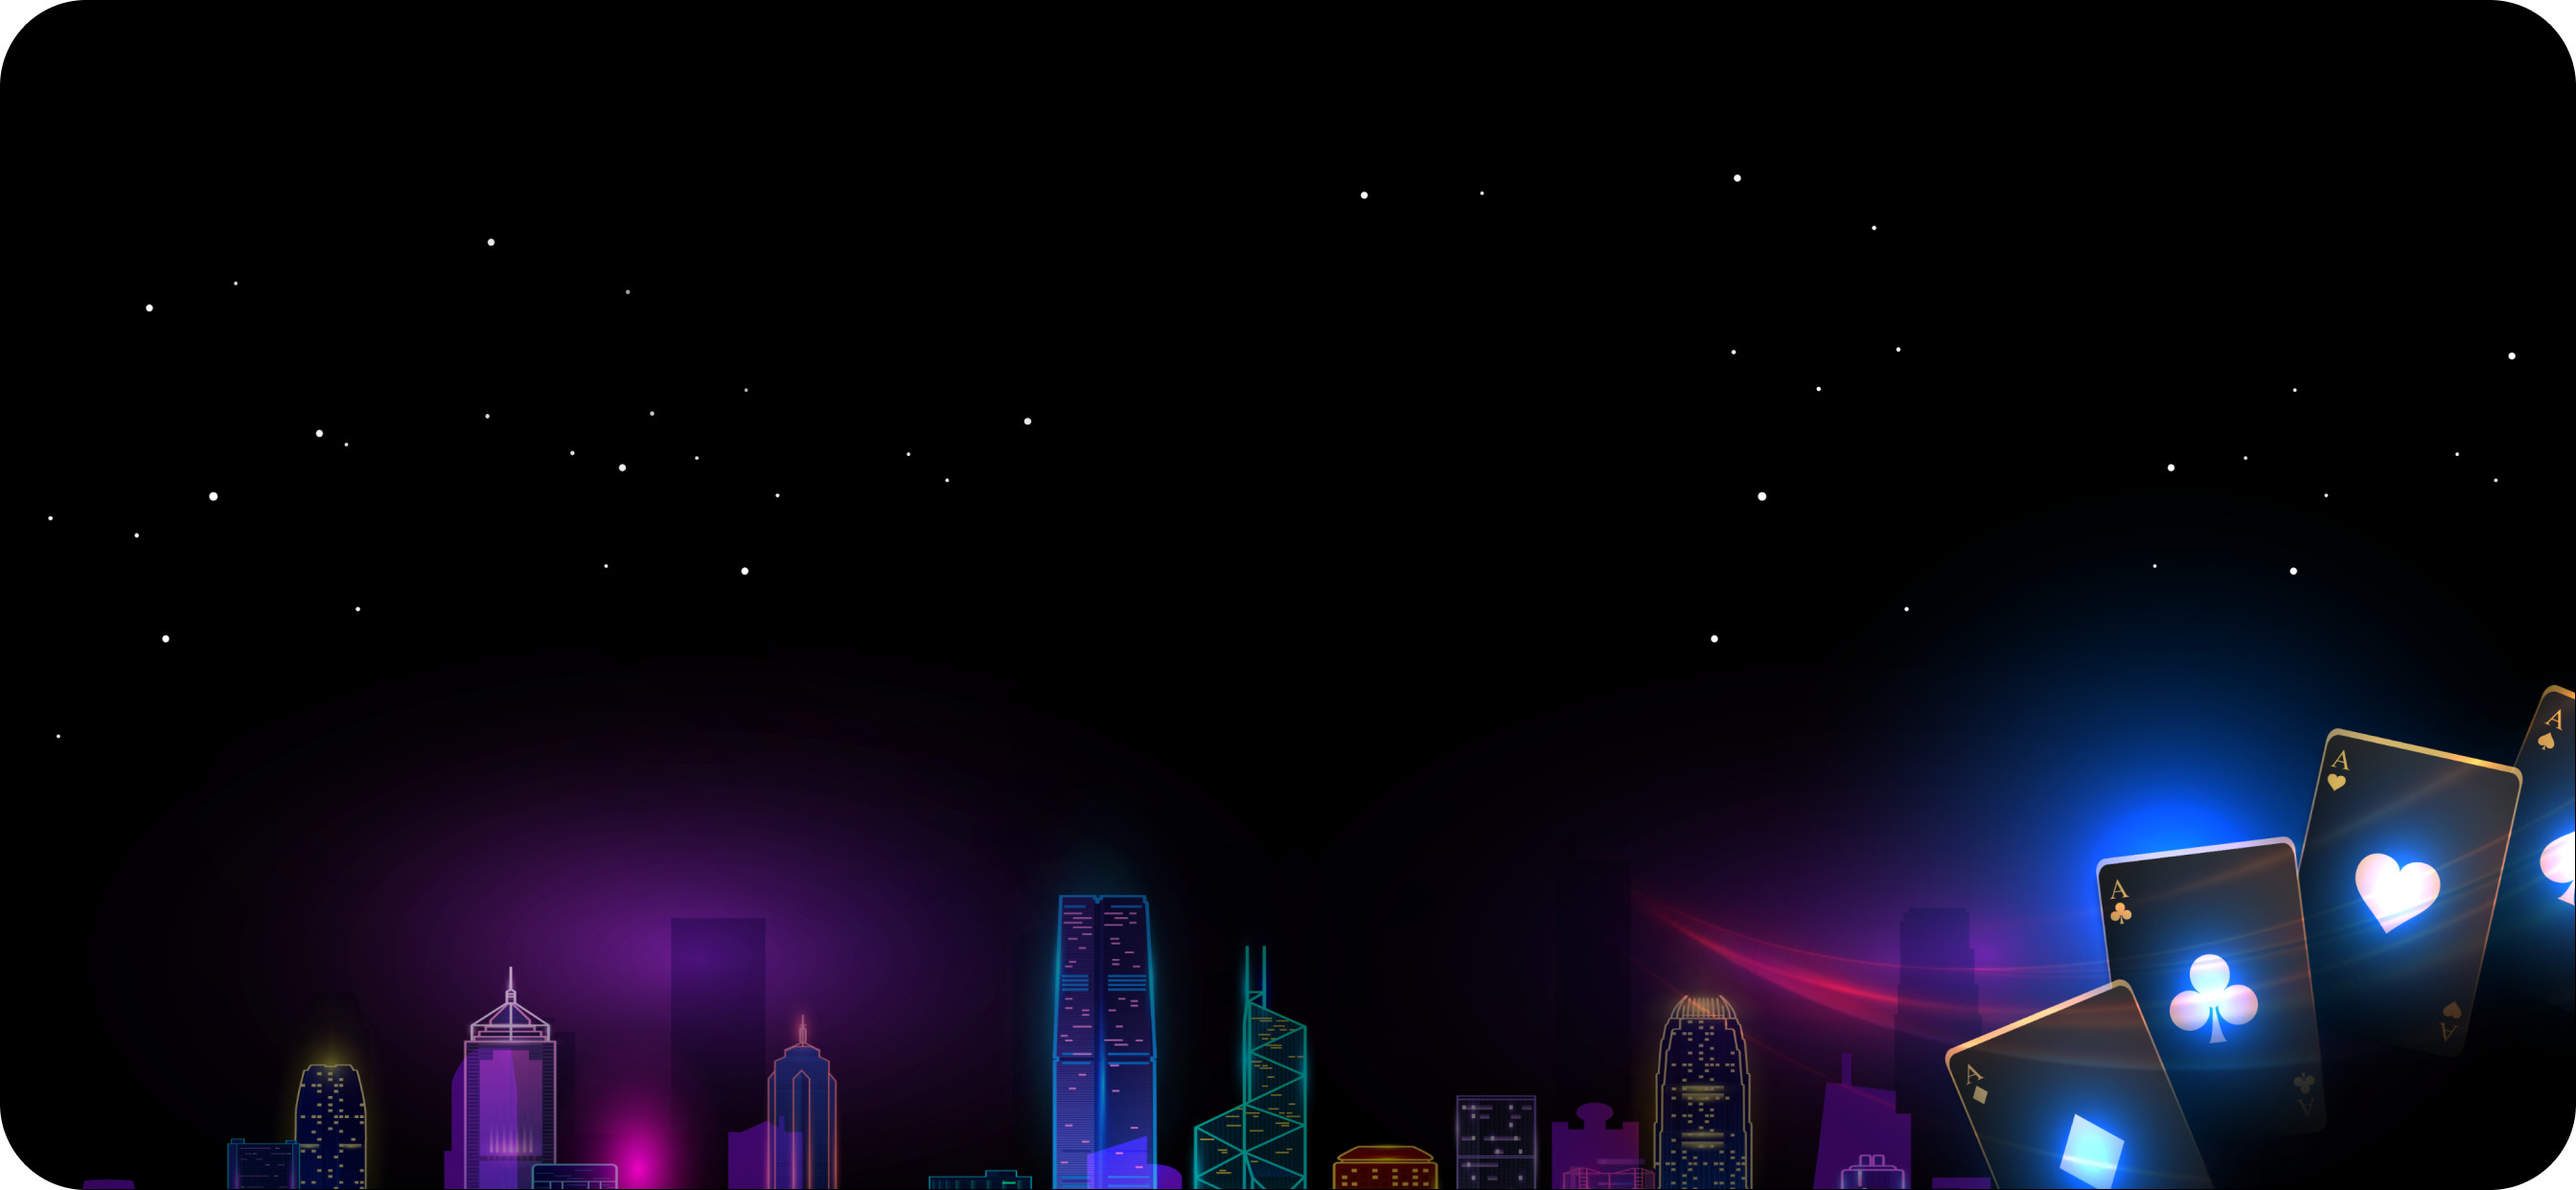
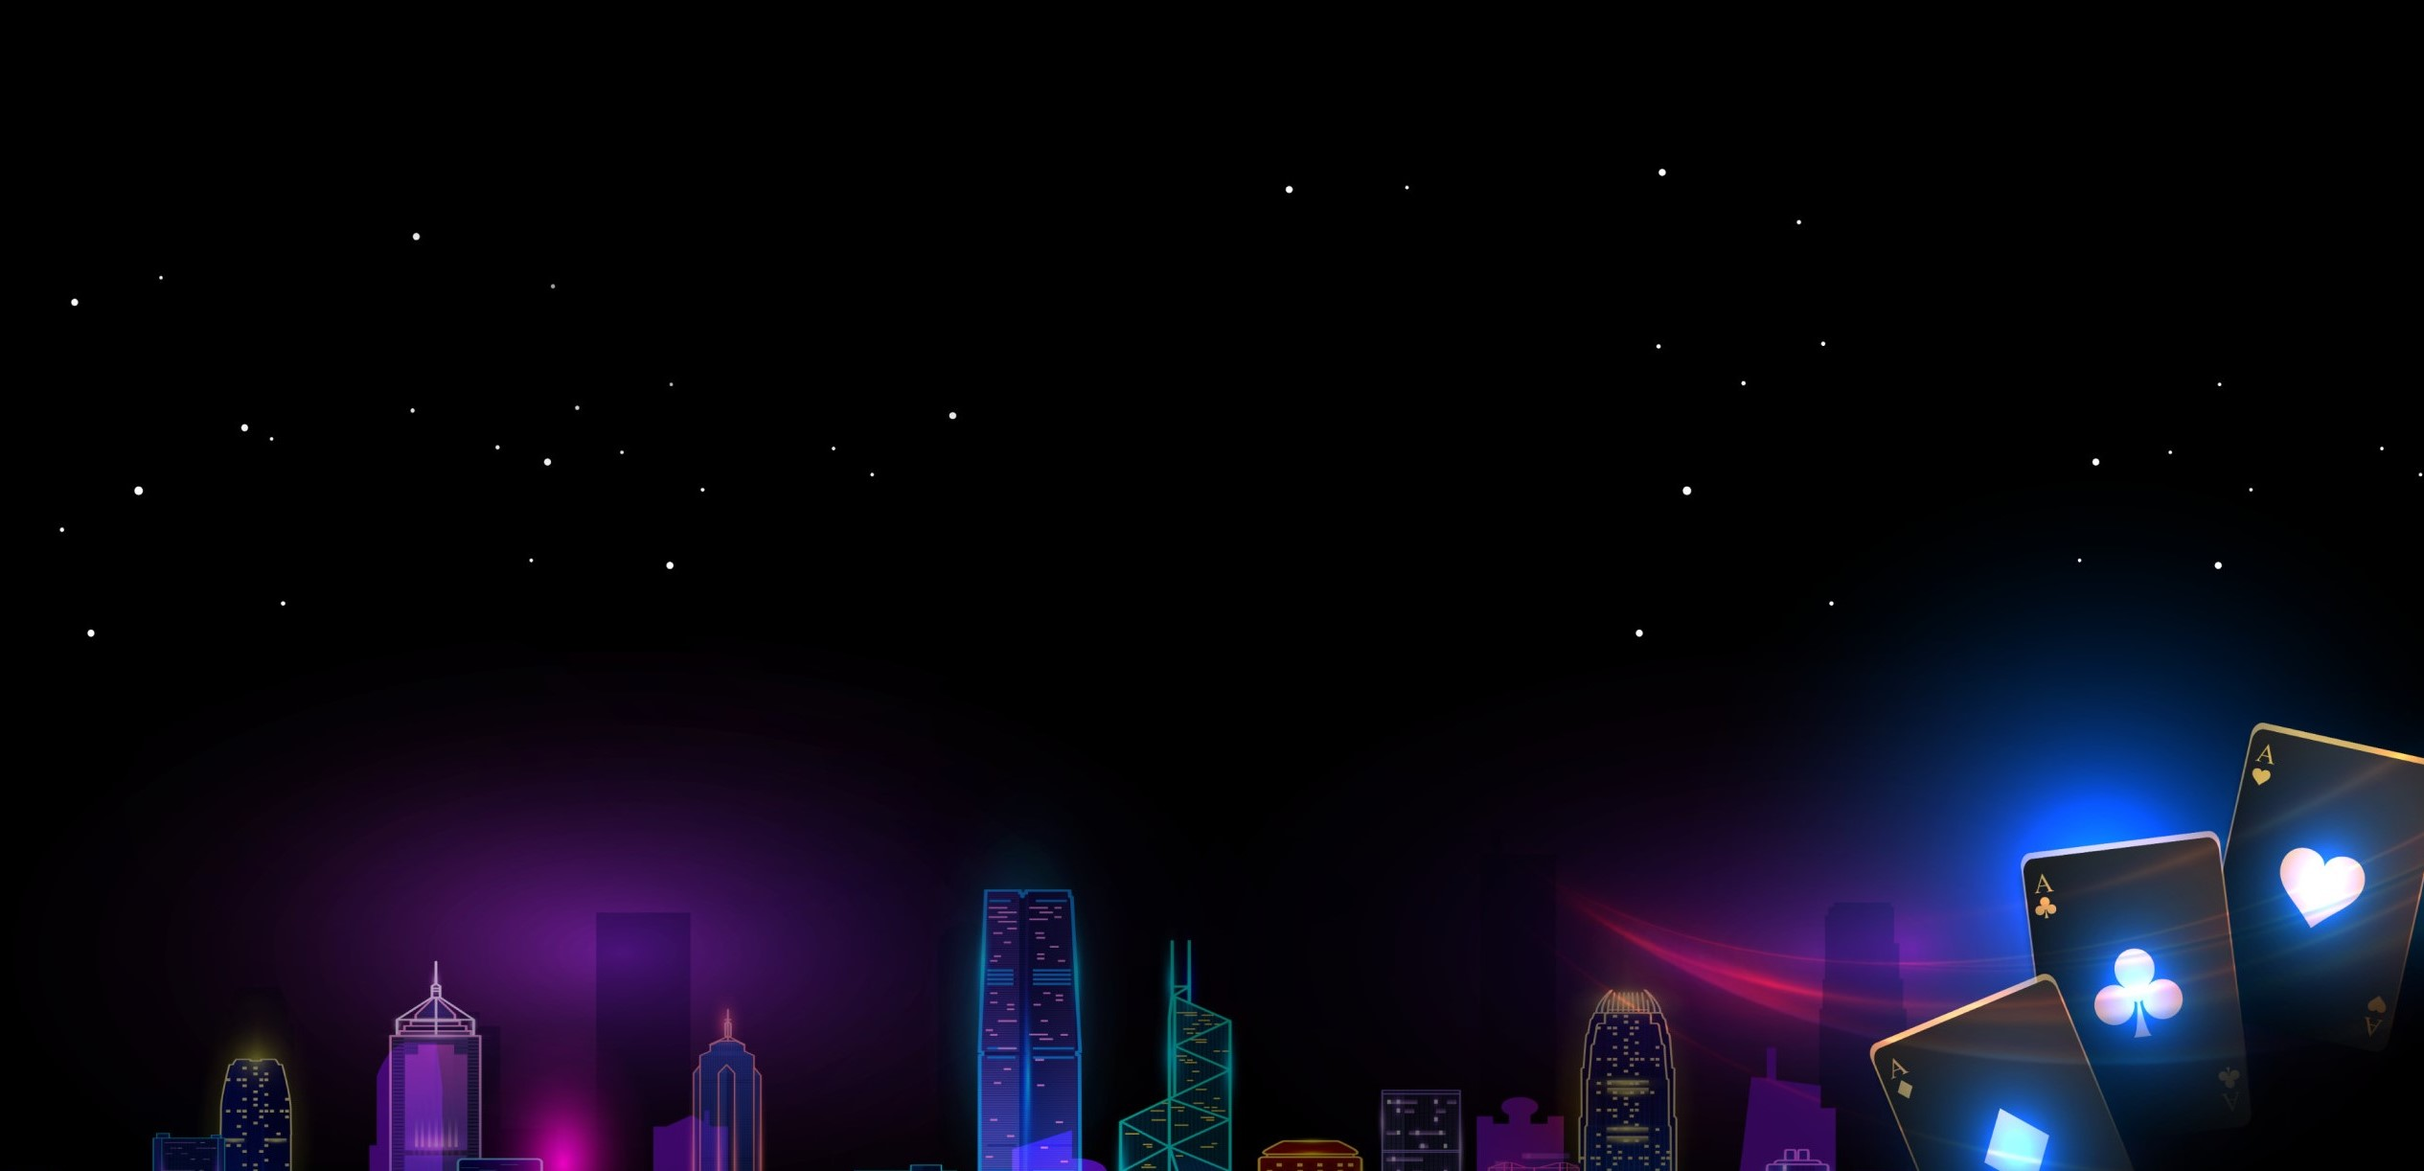
update ui

diff --git a/src/screens/Home.tsx b/src/screens/Home.tsx
@@ -81,9 +81,9 @@ const Home: React.FC = (props: any) => {
     }
     return room;
   };
-  // useEffect(() => {
-  //   checkAuth();
-  // }, []);
+  useEffect(() => {
+    checkAuth();
+  }, []);
   useEffect(() => {
     if (isFocused) {
       checkAuth();
@@ -121,9 +121,14 @@ const Home: React.FC = (props: any) => {
   return (
     <View style={{ position: "relative" }}>
       <Image
+        resizeMode="cover"
         alt="No image"
         source={require("../../assets/BackgroundGame.png")}
-        style={{ width: "102%", height: "102%", zIndex: -2 }}
+        style={{
+          width: "100%",
+          height: "100%",
+          zIndex: -2,
+        }}
       />
 
       <Image
@@ -148,7 +153,7 @@ const Home: React.FC = (props: any) => {
           height: "100%",
           position: "absolute",
           zIndex: 2,
-          top: "10%",
+          bottom: "-10%",
           right: "7%",
         }}
       />
@@ -234,20 +239,21 @@ const Home: React.FC = (props: any) => {
         style={{
           position: "absolute",
           zIndex: 4,
-          bottom: "22%",
-          right: 0,
-          width: 50,
-          height: 50,
+          bottom: "1%",
+          right: "1%",
         }}
         onPress={() => {
-          Alert.alert("Sup");
+          Alert.alert("sup");
         }}
       >
         <Image
           resizeMode="contain"
           alt="No image"
           source={require("../../assets/Support.png")}
-          style={{}}
+          style={{
+            width: 50,
+            height: 50,
+          }}
         />
       </TouchableOpacity>
       {/* Building Left */}
@@ -255,7 +261,7 @@ const Home: React.FC = (props: any) => {
         style={{
           position: "absolute",
           zIndex: 2,
-          bottom: 0,
+          bottom: "-0%",
           left: 0,
           width: "50%",
           height: "25%",
@@ -265,7 +271,7 @@ const Home: React.FC = (props: any) => {
           resizeMode="contain"
           alt="No image"
           source={require("../../assets/Building.png")}
-          style={{ width: "100%", height: "100%" }}
+          style={{ width: "100%", height: "100%", bottom: "-10%" }}
         />
         <View
           style={{
@@ -274,7 +280,7 @@ const Home: React.FC = (props: any) => {
             width: "60%",
             height: "60%",
             justifyContent: "space-around",
-            bottom: 90,
+            bottom: "20%",
             left: "110%",
           }}
         >
@@ -347,14 +353,14 @@ const Home: React.FC = (props: any) => {
           width: "30%",
           height: "40%",
           position: "absolute",
-          backgroundColor: "transparent",
-          // marginTop: "2%",
           display: "flex",
           alignItems: "center",
           flexDirection: "row",
-          top: "-2%",
-          left: "-2%",
+          top: "2%",
+          left: "0%",
           zIndex: 4,
+          maxHeight: 300,
+          maxWidth: 250,
         }}
       >
         <TouchableOpacity
@@ -381,16 +387,16 @@ const Home: React.FC = (props: any) => {
             style={{
               width: "60%",
               height: "50%",
+              maxHeight: 80,
               position: "absolute",
               top: "22%",
             }}
           />
           <Text
             style={{
-              position: "absolute",
               color: "white",
-              bottom: 0,
-              // left: "25%",
+              position: "absolute",
+              bottom: 5,
             }}
           >
             {user.username}
@@ -427,56 +433,12 @@ const Home: React.FC = (props: any) => {
               fontWeight: "bold",
               fontSize: 18,
               paddingLeft: 12,
-              // fontFamily: "Pricedown",
             }}
           >
             {user.chips}
           </Text>
         </View>
       </View>
-
-      {/* <View
-          style={{
-            width: "100%",
-            height: "100%",
-            zIndex: 10000,
-            backgroundColor: "black",
-            position: "absolute",
-            display: "flex",
-            justifyContent: "center",
-            alignItems: "center",
-          }}
-        >
-          <Text color={"white"} fontSize={30}>
-            TEST SCREEN
-          </Text>
-          <Button marginBottom={6} onPress={getAvailableRooms}>
-            Get Room
-          </Button>
-          <Button marginBottom={6} onPress={createRoom}>
-            Create Room
-          </Button>
-
-          <View>
-            {rooms.length > 0 &&
-              rooms.map((item, index) => (
-                <View
-                  key={index}
-                  style={{
-                    display: "flex",
-                    justifyContent: "center",
-                    flexDirection: "row",
-                    minWidth: 200,
-                  }}
-                >
-                  <Text fontSize={20} color={"white"}>
-                    {item.roomId}
-                  </Text>
-                  <Button onPress={() => joinRoom(item)}>Join</Button>
-                </View>
-              ))}
-          </View>
-        </View> */}
     </View>
   );
 };

diff --git a/src/module/game/UserReal.tsx b/src/module/game/UserReal.tsx
@@ -1,8 +1,8 @@
 import { Room } from "colyseus.js";
-import { Flex, View } from "native-base";
+import { View } from "native-base";
 
 import { useContext, useEffect, useRef, useState } from "react";
-import { Animated, Image, Text, TouchableOpacity } from "react-native";
+import { Animated, Image, Text } from "react-native";
 import { useDispatch, useSelector } from "react-redux";
 import { useAuth } from "../../context/AuthContext";
 import { GameContext } from "../../context/GameContext";
@@ -17,10 +17,13 @@ export const UserReal = ({
   highestBet,
   countRaiseInWave,
 }) => {
+  const {
+    authState: { user },
+  } = useAuth();
   const dispatch = useDispatch();
   const { profileUser } = useSelector(selectGame);
   const { waveGame } = useSelector(selectGame);
-  const { stateClearTimeout } = useSelector(selectGame);
+
   const { countdownReal } = useSelector(selectGame);
   const { highBetWave } = useSelector(selectGame);
   const { isRunning } = useSelector(selectGame);
@@ -354,7 +357,7 @@ export const UserReal = ({
     } else {
     }
   }, [countdownReal, currentPlayer, waveGame, isRunning]);
-
+  console.log(myroom);
   const PositionVerticalCard1 = useRef(new Animated.Value(0)).current;
   const PositionVerticalCard2 = useRef(new Animated.Value(0)).current;
   const PositionVerticalChipBet = useRef(new Animated.Value(-1)).current;
@@ -689,7 +692,7 @@ export const UserReal = ({
               height: 20,
             }}
           >
-            {profileUser ? profileUser.id : "User"}
+            {user ? user.username : "User"}
           </Text>
         </View>
       </View>
@@ -706,11 +709,13 @@ export const UserReal = ({
               display: "flex",
               width: "40%",
               height: "17%",
+              maxWidth: 350,
+              maxHeight: 70,
               flexDirection: "row",
             }}
           >
             <Image
-              resizeMode="cover"
+              resizeMode="contain"
               source={require("../../../assets/betFrame.png")}
               style={{
                 width: "100%",
@@ -721,8 +726,9 @@ export const UserReal = ({
             />
             <View
               style={{
+                marginLeft: 10,
                 zIndex: 7,
-                width: "100%",
+                width: "96%",
                 height: "100%",
                 display: "flex",
                 flexDirection: "row",

diff --git a/src/module/game/BankerCard.tsx b/src/module/game/BankerCard.tsx
@@ -353,7 +353,7 @@ export const BankerCard = ({ ImageCard }) => {
           }}
         >
           <Image
-            resizeMode="contain"
+            resizeMode="center"
             source={require("../../../assets/deckofcard/CloseCard.png")}
             style={{ width: "100%", height: "100%" }}
           />
@@ -369,7 +369,8 @@ export const BankerCard = ({ ImageCard }) => {
           }}
         >
           <Image
-            resizeMode="contain"
+            resizeMethod="resize"
+            resizeMode="center"
             source={ImageBanker ? ImageBanker[4]?.image : ""}
             style={{ width: "100%", height: "100%" }}
           />
@@ -398,7 +399,7 @@ export const BankerCard = ({ ImageCard }) => {
           }}
         >
           <Image
-            resizeMode="contain"
+            resizeMode="center"
             source={require("../../../assets/deckofcard/CloseCard.png")}
             style={{ width: "100%", height: "100%" }}
           />
@@ -414,7 +415,7 @@ export const BankerCard = ({ ImageCard }) => {
           }}
         >
           <Image
-            resizeMode="contain"
+            resizeMode="center"
             source={ImageBanker ? ImageBanker[3]?.image : ""}
             style={{ width: "100%", height: "100%" }}
           />
@@ -443,7 +444,7 @@ export const BankerCard = ({ ImageCard }) => {
           }}
         >
           <Image
-            resizeMode="contain"
+            resizeMode="center"
             source={require("../../../assets/deckofcard/CloseCard.png")}
             style={{ width: "100%", height: "100%" }}
           />
@@ -459,7 +460,7 @@ export const BankerCard = ({ ImageCard }) => {
           }}
         >
           <Image
-            resizeMode="contain"
+            resizeMode="center"
             source={ImageBanker ? ImageBanker[2]?.image : ""}
             style={{ width: "100%", height: "100%" }}
           />

diff --git a/src/module/game/Game.tsx b/src/module/game/Game.tsx
@@ -174,7 +174,7 @@ const Game = (props: any) => {
     if (isRunning === false) {
       setTimeout(() => {
         handleReady();
-      }, 5000);
+      }, 4000);
     }
   }, [isRunning]);
 
@@ -248,7 +248,7 @@ const Game = (props: any) => {
       dispatch(gameAction.updateCountdown(9));
       dispatch(gameAction.updateStateClearTimeout(true));
       dispatch(
-        gameAction.updateRandomCountdown(Math.floor(Math.random() * 7) + 1)
+        gameAction.updateRandomCountdown(Math.floor(Math.random() * 3) + 4)
       );
       setCurrent(newarr[0]);
     }
@@ -372,7 +372,7 @@ const Game = (props: any) => {
       {/* Chat */}
       {/* Table */}
       <Image
-        resizeMode="cover"
+        resizeMode="contain"
         source={require("../../../assets/TableRoom.png")}
         style={{
           width: "70%",

diff --git a/src/module/game/BankerCard4.tsx b/src/module/game/BankerCard4.tsx
@@ -136,7 +136,7 @@ export const BankerCard4 = ({ ImageBanker4 }) => {
         }}
       >
         <Image
-          resizeMode="contain"
+          resizeMode="center"
           source={require("../../../assets/deckofcard/CloseCard.png")}
           // source={ImageBanker ? ImageBanker[2]?.image : ""}
           style={{ width: "100%", height: "100%" }}
@@ -153,7 +153,7 @@ export const BankerCard4 = ({ ImageBanker4 }) => {
         }}
       >
         <Image
-          resizeMode="contain"
+          resizeMode="center"
           source={ImageBanker4 ? ImageBanker4 : ""}
           style={{ width: "100%", height: "100%" }}
         />

diff --git a/src/module/game/BankerCard5.tsx b/src/module/game/BankerCard5.tsx
@@ -134,7 +134,7 @@ export const BankerCard5 = ({ ImageBanker5 }) => {
         }}
       >
         <Image
-          resizeMode="contain"
+          resizeMode="center"
           source={require("../../../assets/deckofcard/CloseCard.png")}
           // source={ImageBanker ? ImageBanker[2]?.image : ""}
           style={{ width: "100%", height: "100%" }}
@@ -151,7 +151,7 @@ export const BankerCard5 = ({ ImageBanker5 }) => {
         }}
       >
         <Image
-          resizeMode="contain"
+          resizeMode="center"
           source={ImageBanker5 ? ImageBanker5 : ""}
           style={{ width: "100%", height: "100%" }}
         />
